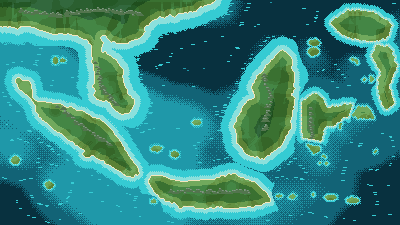
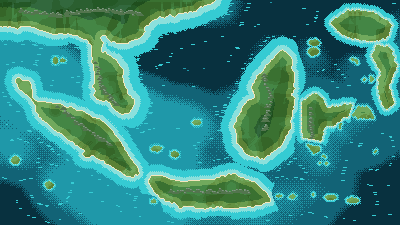
해저 — 좁은 바다에 심해색이 들어설 자리가 없었다
홍해가 「강」으로 읽힌 것은 넓이가 아니라 색이었다. shoreW가 해안 띠 폭을
뭍 덩어리의 넓이로만 정해서, 수만 px짜리 대륙 사이에 낀 폭 30px 물길이
양쪽에서 상한 7px 띠를 받아 여울+얕은바다가 d 16.8px까지 갔다. 반폭이
15px인 홍해엔 짙은 색이 설 자리가 처음부터 없었다.

그 자리 물의 반폭을 재서(boxMaxSep) 칠할 때만 띠를 깎는다. 백사 1px과
분위수 표본은 원래 폭 그대로다 — cMid q0.34·cDeep q0.67은 한 줄도 안
건드렸다. 홍해 평균밝기 143.6→126.8 · 페르시아만 165.1→132.1(얕은 두 단이
100%→71.4%) · 아라비아해 대조군 90.0→90.0으로 불변.

★ 스윕이 설계 규칙을 만들어 냈다 — NARROW_R × NARROW_K ≥ shoreW 상한(7).
곱이 그 아래면 반폭이 R에서 포화해도 7을 못 넘겨 아홉 장의 열린 연안 띠가
통째로 얇아진다. 다만 R을 키우면 되는 것도 아니다: R이 화면 안에서 열린
바다가 실제로 확보하는 반폭보다 크면 포화 자체가 안 일어나 같은 자리로
무너진다(R48·K0.16은 곱이 7.68인데도 대조군이 무너졌다). 채택 R32·K0.22.

아홉 장 바다%가 소수점까지 그대로다(백사를 안 건드렸고 check-map의 is_sea가
모래를 뭍으로 세므로 항로 회랑 판정이 안 움직인다). PNG를 다시 구웠다 —
manifest가 scene:map:*을 오버라이드하면 bake가 그리기 콜백을 아예 안 부르므로
scene.js만 고쳐선 화면에 안 나온다. check-map 아홉 권역 개별 반려 0.

Claude-Session: https://claude.ai/code/session_01P3CCi7CSrj6MD6WLCgt1y3

diff --git a/js/sprites/scene.js b/js/sprites/scene.js
@@ -176,6 +176,22 @@ export function mapSprite(regionId = 'mediterranean', cities = [], routes = []) 
     const sea = distField(land, 1, lab);        // 바다 픽셀 → 가장 가까운 뭍까지 거리 + 그 덩어리
     const inl = distField(land, 0, null);       // 뭍 픽셀 → 가장 가까운 바다까지 거리
 
+    /* ── 좁은 물길의 띠를 깎는다 (회차 26 · 홍해·페르시아만) ─────────────────
+       `shoreW`는 **뭍 덩어리의 넓이**만 본다 — 대륙 사이에 낀 폭 30px 물길도 양쪽에서 7px짜리
+       띠를 받아 **가운데가 통째로 여울**이 된다(홍해 평균밝기 143.6 · 페르시아만 얕은두단 100%).
+       여기서 그 자리 물의 **반폭**(`halfW`)으로 한 번 더 깎는다.
+       ⚠ **백사(1px)와 분위수 표본(`far`)은 원래 `shoreW`를 그대로 쓴다.**
+         ① 백사를 깎으면 해안선이 끊기고 `check-map`의 항로 회랑 폭 판정이 흔들린다.
+         ② 표본을 바꾸면 `cMid q0.34`·`cDeep q0.67`의 **값 자체**가 움직여 아홉 장이 함께 바뀐다 —
+            그건 이 회차에 안 하기로 한 화풍 결정이다. 그래서 **칠하는 데만** 쓴다. */
+    const halfW = boxMaxSep(sea.d, NARROW_R);
+    /** 그 자리에서 실제로 쓸 띠 폭 — 원래 폭과 「반폭 × K」 중 작은 것(하한 `NARROW_MIN`) */
+    const wAt = (i) => {
+      const w0 = shoreW[sea.lb[i]] ?? 3;
+      const wn = Math.max(NARROW_MIN, Math.round(halfW[i] * NARROW_K));
+      return wn < w0 ? wn : w0;
+    };
+
     /* 4) 바다 — 수심 다섯 단. 단 사이는 Bayer 4×4로 섞어 띠 자국을 없앤다.
        양끝(여울·심해)은 그 기후가 이미 갖고 있던 색이라 바다마다의 인상은 그대로 남는다. */
     const sand = clim.shore[0];
@@ -207,7 +223,8 @@ export function mapSprite(regionId = 'mediterranean', cities = [], routes = []) 
       for (let x = 0; x < VW; x++) {
         if (land[y * VW + x]) continue;
         const i = y * VW + x;
-        const w = shoreW[sea.lb[i]] ?? 3;
+        const w = shoreW[sea.lb[i]] ?? 3;   // 백사 전용 — 좁은 물길에서도 해안선은 끊지 않는다
+        const wn = wAt(i);                  // 여울·얕은바다 전용 — 좁은 물길에서 깎인다
         const d = sea.d[i];
         let c;
         /* 백사는 **1px대로 묶는다**(`min(…, 1.15)`). 폭을 덩어리 크기에 비례시켰더니
@@ -221,8 +238,8 @@ export function mapSprite(regionId = 'mediterranean', cities = [], routes = []) 
            ⚠ 문턱도 1.15→1.18로만 올린다 — 모래색은 `check-map.py`의 `is_sea`에서 **뭍**으로
              세어지므로 굵어진 만큼 항로 회랑이 좁아져 반려된다(전례 있음). 총량은 +8% 안이다. */
         if (dstep(d, Math.min(w * 0.35, 1.18), 0.34, x, y) < 0) c = sand;   // 백사
-        else if (dstep(d, w, 1.1, x, y) < 0) c = depth[0];            // 여울
-        else if (dstep(d, w * 2.4, 1.8, x, y) < 0) c = depth[1];      // 얕은 바다
+        else if (dstep(d, wn, 1.1, x, y) < 0) c = depth[0];           // 여울
+        else if (dstep(d, wn * 2.4, 1.8, x, y) < 0) c = depth[1];     // 얕은 바다
         /* 여기부터는 거리가 아니라 **해저값**으로 끊는다(위 주석). 등심선이 섬을 복제하지 않는다.
            전이대는 해저값 단위라 0.03~0.05 — 잡음이 저주파라 이 폭이면 화면에서 2~4px이 된다. */
         else {
@@ -425,6 +442,57 @@ function distField(mask, want, labels) {
   }
   for (let i = 0; i < d.length; i++) d[i] /= 3;
   return { d, lb };
+}
+
+/* ── 국소 물폭 (회차 26 · R-홍해) ──────────────────────────────
+   ★ **왜 필요한가**: 해안 띠 폭(`shoreW`)은 **뭍 덩어리의 넓이**로만 정해져 있었다. 그래서
+     아라비아·아프리카처럼 수만 px짜리 대륙 사이에 낀 **폭 30px 물길**(홍해·페르시아만)은
+     양쪽에서 상한 7px짜리 띠를 받아 **가운데에 심해색이 들어설 자리가 없었다** —
+     실측(회차 26 지도 트랙): 홍해 평균밝기 **143.6** vs 아라비아해 **90.0**,
+     페르시아만은 **얕은 두 단이 100.0%**. 넓혀서 푸는 길은 도시 좌표가 막고 있다.
+   ⇒ 띠 폭을 **그 자리 물의 넓이**로도 깎는다. 그 「넓이」가 이 함수가 내는 값이다:
+     `sea.d`(뭍까지 거리)의 **국소 최대** = 그 물길의 반폭(半幅).
+   ⚠ **반경이 작으면 열린 연안까지 좁게 잰다.** 열린 바다의 물가 픽셀(d=1)도 반경 안에
+     깊은 물이 없으면 「좁은 물길」로 읽힌다 — 그러면 아홉 장의 해안 띠가 통째로 얇아진다.
+     그래서 반경은 **홍해 반폭(15px)보다 훨씬 크게** 잡는다(아래 `NARROW_R`).
+   ⚠ 반대로 너무 크면 좁은 물길이 **옆 넓은 바다의 값을 받아** 가드가 풀린다(지도 트랙이
+     회차 26에 최대필터 반경으로 같은 함정을 겪었다). 두 실패 사이를 실측으로 잡았다. */
+/* 손잡이 셋 — **스윕으로 잡았다**(전체 표는 `.playtest/round-26/A-PROGRESS.md` 바퀴 6).
+   ★★ **불변식: `NARROW_R × NARROW_K ≥ 7`(=`shoreW` 상한).** 이걸 지키면 **열린 바다에서는
+     아무 일도 안 일어난다** — 반폭이 R에서 포화하므로 `round(halfW·K) ≥ 7 ≥ shoreW`가 되어
+     원래 띠가 그대로 남는다. 깨뜨리면(예: R30·K0.20 = 6.0) **아홉 장의 연안 띠가 통째로 7→6px**로
+     얇아진다. 실측으로 확인했다 — 대조군(아라비아해 열린 바다) 평균밝기:
+       기준선 90.0 · **R32·K0.22(7.04) → 90.0** · R30·K0.20(6.0) → 89.9 · R48·K0.16(7.7이지만
+       화면 안 물이 R보다 좁아 포화가 안 된다) → 86.4.
+     ⇒ **R은 「화면 안에서 열린 바다가 실제로 확보하는 반폭」보다 크면 안 된다.**
+   ⚠ 셋 다 **아홉 장 공통**이다. 하나를 만지면 여덟이 같이 바뀐다 — 고쳤으면 아홉 장을 다시 굽고
+     ① 바다%가 그대로인지(백사를 안 건드렸으니 그대로여야 한다) ② 대조군 밝기가 안 움직였는지
+     ③ `check-map.py`가 아홉 장 통과인지를 **모두** 본다. */
+const NARROW_R = 32;      // 반폭을 재는 반경(px). 작으면 열린 연안까지 좁게 읽고, 크면 옆 바다가 샌다
+const NARROW_K = 0.22;    // 반폭의 이 비율까지만 띠로 쓴다 (여울+얕은바다는 그 2.4배까지)
+const NARROW_MIN = 3;     // 이보다 얇게는 안 깎는다 — 반폭 7px 이하 물길은 통째로 여울이 맞다
+
+function boxMaxSep(src, r) {
+  const tmp = new Float32Array(src.length);
+  const out = new Float32Array(src.length);
+  for (let y = 0; y < VH; y++) {                 // 가로
+    const row = y * VW;
+    for (let x = 0; x < VW; x++) {
+      let m = 0;
+      const a0 = Math.max(0, x - r), a1 = Math.min(VW - 1, x + r);
+      for (let k = a0; k <= a1; k++) if (src[row + k] > m) m = src[row + k];
+      tmp[row + x] = m;
+    }
+  }
+  for (let x = 0; x < VW; x++) {                 // 세로
+    for (let y = 0; y < VH; y++) {
+      let m = 0;
+      const a0 = Math.max(0, y - r), a1 = Math.min(VH - 1, y + r);
+      for (let k = a0; k <= a1; k++) { const v = tmp[k * VW + x]; if (v > m) m = v; }
+      out[y * VW + x] = m;
+    }
+  }
+  return out;
 }
 
 /* Bayer 4×4 정렬 디더. 논리 1px이 화면 3px이라 **백색잡음은 사포가 되고 정렬 디더는 무늬가 된다** —
